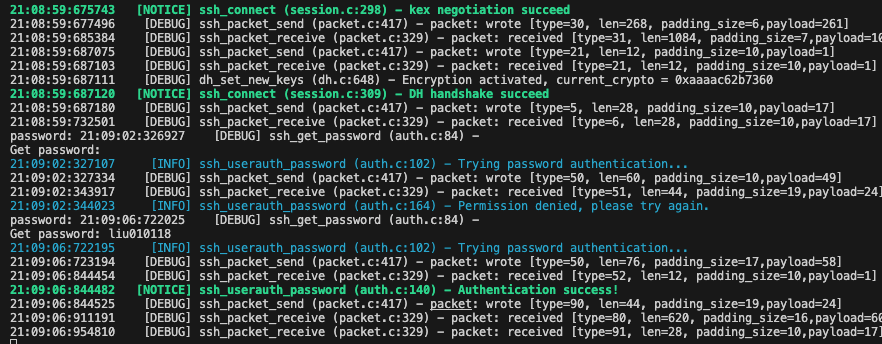
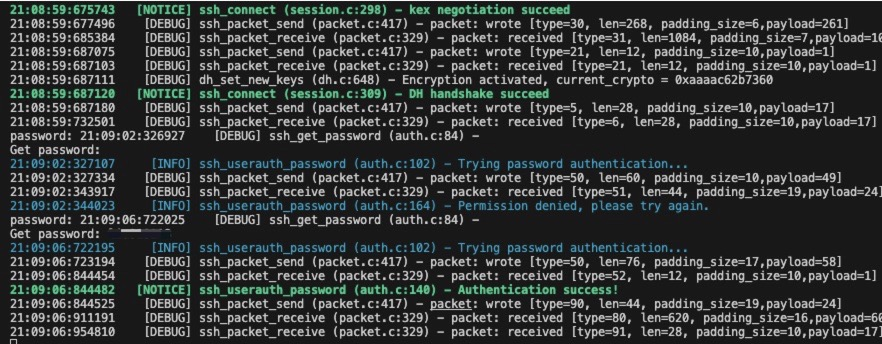
edit README.md.

diff --git a/checkpoint/README.md b/checkpoint/README.md
@@ -1,5 +1,25 @@
 # Mini SFTP Client
 
+### CP1
+![CP1](./ckpt_1.jpg)
+
+The server identification string is `SSH-2.0-OpenSSH_8.9p1 Ubuntu-3ubuntu0.4`.
+
+### CP2
+![CP2](./ckpt_2.jpg)
+
+We can see the negotiate cipher suite in above figure.
+
+### CP3
+![CP3](./ckpt_3.jpg)
+
+The above figure is the screenshot from wireshark. We can see that after the New Keys message, all messages are encrypted.
+
+### CP4
+![CP4](./ckpt_4.jpg)
+
+When we input wrong password, the terminal will show `Permission denied, please try again.`. When we input correct password, the server grants access to the client.
+
 ### CP5
 
 ![CP5](./ckpt_5.png)
